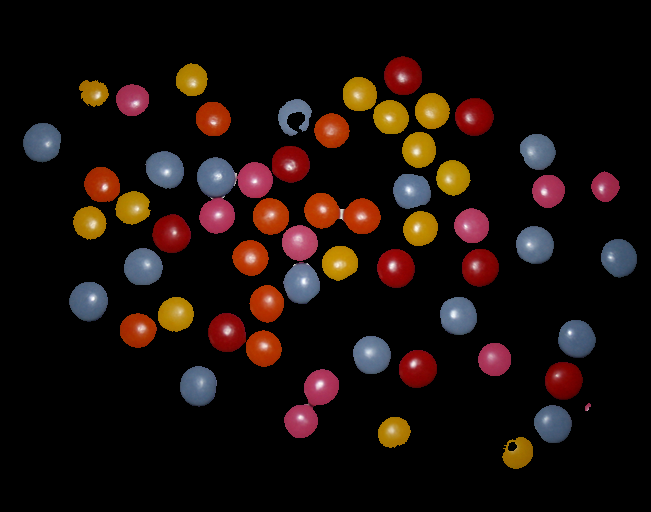
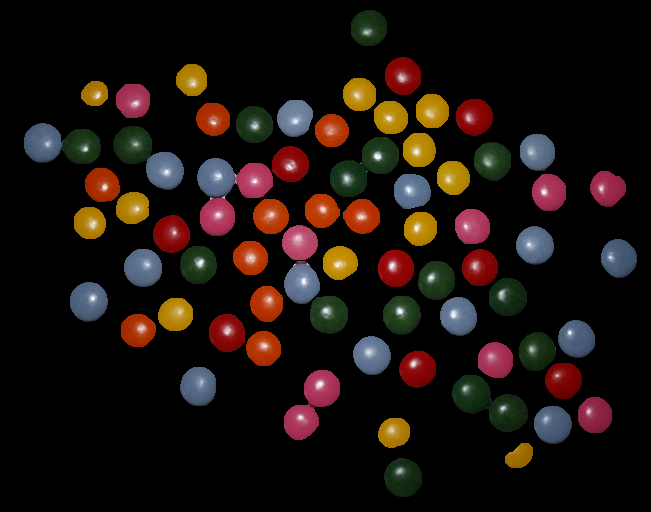
sdf

diff --git a/matlab/main2.m b/matlab/main2.m
@@ -9,9 +9,9 @@ originalImg = imread([fileToLoad '.png']);
 % scale image to 0-1 values
 originalImg = double(originalImg)/255.0;
 
-%normalizedColors = optimaThreshold(originalImg);
+normalizedColors = optimaThreshold(originalImg);
 
-seperateColoredObjects = separateColors(originalImg);
+seperateColoredObjects = separateColors(normalizedColors);
 
 red_sweets = seperateColoredObjects(:,:,1);
 green_sweets = seperateColoredObjects(:,:,2);
@@ -21,11 +21,18 @@ pink_sweets = seperateColoredObjects(:,:,5);
 orange_sweets = seperateColoredObjects(:,:,6);
 
 red_sweets = imfill(red_sweets,'holes');
-green_sweets = imfill(red_sweets,'holes');
+green_sweets = imfill(green_sweets,'holes');
 blue_sweets = imfill(blue_sweets,'holes');
 yellow_sweets = imfill(yellow_sweets,'holes');
 pink_sweets = imfill(pink_sweets,'holes');
 orange_sweets = imfill(orange_sweets,'holes');
+
+red_sweets = openAndClose(red_sweets);
+green_sweets = openAndClose(green_sweets);
+blue_sweets = openAndClose(blue_sweets);
+yellow_sweets = openAndClose(yellow_sweets);
+pink_sweets = openAndClose(pink_sweets);
+orange_sweets = openAndClose(orange_sweets);
 
 % merge all maskes to one complete mask
 bitmask = red_sweets | green_sweets | blue_sweets | yellow_sweets | pink_sweets | orange_sweets;
@@ -34,11 +41,7 @@ bitmask = red_sweets | green_sweets | blue_sweets | yellow_sweets | pink_sweets 
 % % do a threshold with moving average filter
 % bitmask = optimaThreshold(originalImg);
 % 
-% % Closing and opening filters, to remove some 
-% bitmask = imclose(bitmask,strel('disk',1));
-% bitmask = imopen(bitmask,strel('disk',8));
-% bitmask = imopen(bitmask,strel('disk',8));
-% bitmask = imclose(bitmask,strel('disk',1));
+% 
 
 % create copy of original
 maskedImage = originalImg;
@@ -64,7 +67,7 @@ end
 
 %C = circlesHough(double(circ),20,21);
 
-C = circlesHough(double(bitmask),10,25);
+C = circlesHough(double(bitmask),5,21);
 %figure(); imshow(l);
 %display detected circles
 figure('Name','Detected sweets','NumberTitle','off'); imshow(originalImg);viscircles(c,r);

diff --git a/matlab/openAndClose.m b/matlab/openAndClose.m
@@ -1,0 +1,6 @@
+function J = openAndClose(I)
+    % Closing and opening filters, to remove some 
+    I = imclose(I,strel('disk',1));
+    I = imopen(I,strel('disk',8));
+    I = imopen(I,strel('disk',8));
+    J = imclose(I,strel('disk',1));

diff --git a/matlab/separateColors.m b/matlab/separateColors.m
@@ -60,6 +60,8 @@ only_green  = medianFilter(only_green, 4);
 only_orange = medianFilter(only_orange, 14);
 only_pink   = medianFilter(only_pink, 10);
 
+
+
 output_args = zeros(m, n, 6);
 
 output_args(:,:, 1) = only_red;
